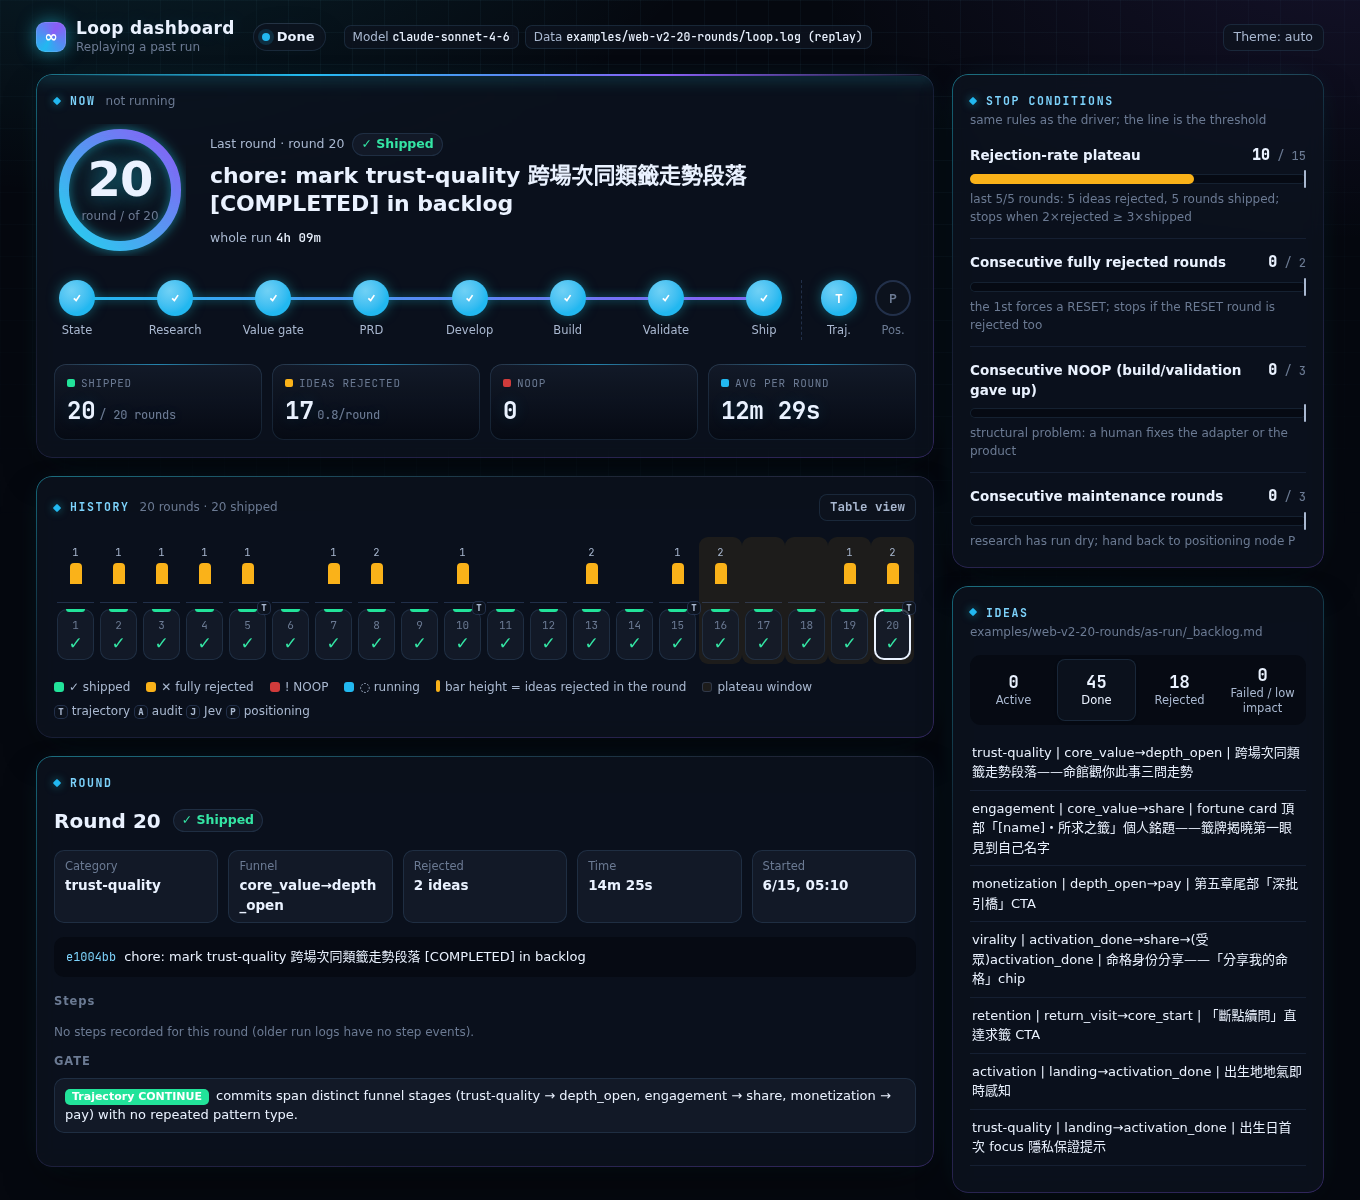
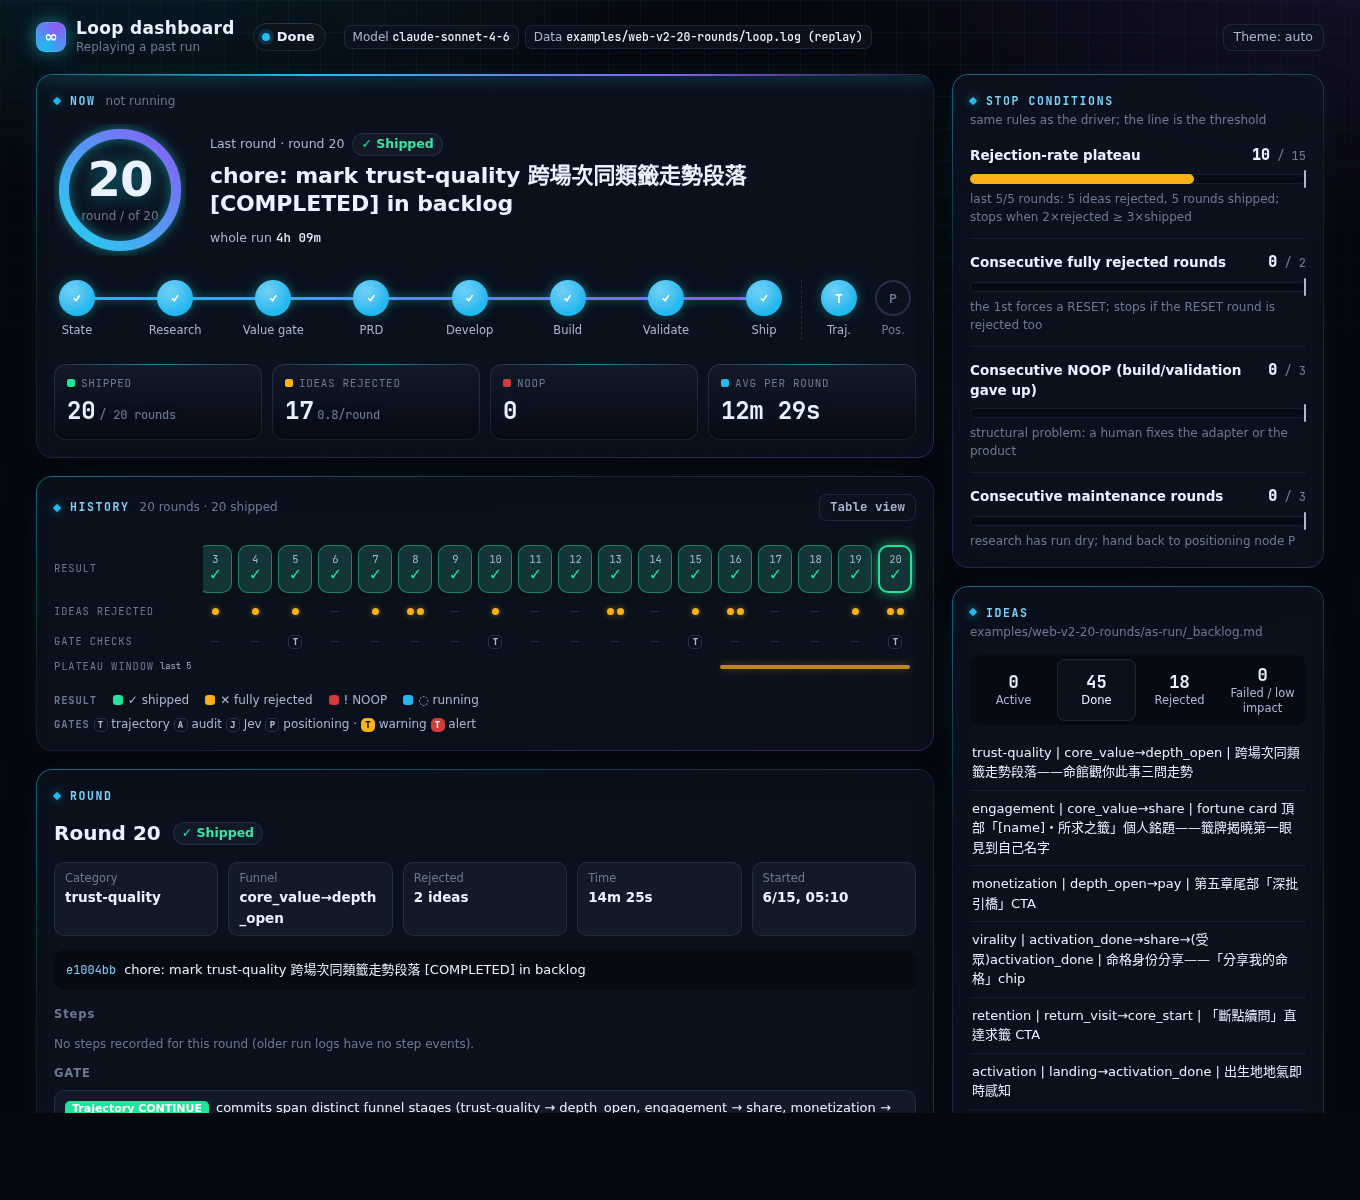
Dashboard history: one labelled row per signal (result, ideas rejected, gate checks, plateau window)

diff --git a/scripts/dashboard/index.html b/scripts/dashboard/index.html
@@ -151,7 +151,7 @@ body::before { content: ""; position: fixed; inset: 0; pointer-events: none; z-i
 @keyframes spin { to { transform: rotate(360deg); } }
 @keyframes ripple-ring { from { transform: scale(1); opacity: .8; } to { transform: scale(1.9); opacity: 0; } }
 .gatebox { display: flex; gap: 8px; padding-left: 14px; border-left: 1px dashed var(--line-2); }
-@media (prefers-reduced-motion: reduce) { .pill.running .dot, .pill.running .dot::after, .stop.now .b, .stop.now .b::before, .stop.now .b::after, .rail .flow, .rail .flow::after, .rail.live .fillbar::after, .srow.cur .dbar i { animation: none !important; }
+@media (prefers-reduced-motion: reduce) { .pill.running .dot, .pill.running .dot::after, .stop.now .b, .stop.now .b::before, .stop.now .b::after, .s-RUNNING .ic, .rail .flow, .rail .flow::after, .rail.live .fillbar::after, .srow.cur .dbar i { animation: none !important; }
   .pill.running .dot::after, .stop.now .b::after, .rail .flow::after, .rail.live .fillbar::after { display: none; } }
 @media (max-width: 700px) {
   .now-head { grid-template-columns: auto minmax(0, 1fr); gap: 16px; }
@@ -173,30 +173,36 @@ body::before { content: ""; position: fixed; inset: 0; pointer-events: none; z-i
 .kpi .v { font-family: var(--mono); font-variant-numeric: tabular-nums; font-size: 24px; font-weight: 700; letter-spacing: -.01em; text-shadow: 0 0 16px var(--accent-soft); margin-top: 2px; white-space: nowrap; }
 .kpi .v small { font-size: 12px; font-weight: 500; color: var(--muted); margin-left: 4px; }
 
-/* history: rejects-per-round bars over status tiles */
+/* history: one column per round, one labelled row per signal */
+.hist[hidden] { display: none; }
+.hist { display: grid; grid-template-columns: auto minmax(0, 1fr); gap: 0 12px; align-items: start; }
+.hlabels, .rcol { display: grid; grid-template-rows: 48px 22px 22px 12px; row-gap: 8px; }
+.hlabels { padding-top: 10px; }
+.hlabels > div { display: flex; align-items: center; font-family: var(--mono); font-size: 10.5px; letter-spacing: .08em; text-transform: uppercase; color: var(--muted); white-space: nowrap; }
+.hlabels > div small { margin-left: 6px; letter-spacing: 0; text-transform: none; color: var(--ink-2); }
 .strip { position: relative; display: flex; gap: 6px; overflow-x: auto; padding: 10px 4px 4px; }
-.rcol { flex: 1 1 0; min-width: 28px; max-width: 48px; display: flex; flex-direction: column; gap: 6px; position: relative; }
-.rcol.inwin::before { content: ""; position: absolute; inset: -8px -3px -4px; background: var(--band); border-radius: 9px; }
-.barcell { position: relative; height: 58px; display: flex; flex-direction: column; justify-content: flex-end; align-items: center; }
-.barcell .bv { font-size: 10.5px; color: var(--ink-2); font-family: var(--mono); margin-bottom: 2px; }
-.barcell .bar { width: min(12px, 40%); border-radius: 4px 4px 0 0; background: var(--warning); }
-.barcell .base { width: 100%; height: 1px; background: var(--line-2); }
-.tile { position: relative; border: 0; border-radius: 10px; padding: 8px 0 7px; cursor: pointer; background: var(--surface-2);
-  box-shadow: inset 0 0 0 1px var(--ring); text-align: center; transition: transform .12s, box-shadow .12s; }
-.tile:hover { transform: translateY(-1px); box-shadow: inset 0 0 0 1px var(--line-2), 0 4px 12px rgba(0,0,0,.1); }
-.tile[aria-current="true"] { box-shadow: inset 0 0 0 2px var(--ink); }
-.tile::after { content: ""; position: absolute; left: 9px; right: 9px; top: 0; height: 3px; border-radius: 0 0 3px 3px; background: var(--muted); }
-.tile .no { display: block; font-size: 11px; color: var(--muted); font-family: var(--mono); }
-.tile .ic { display: block; font-size: 17px; font-weight: 800; line-height: 20px; }
-.tile .mk { position: absolute; top: -8px; right: -5px; display: flex; gap: 2px; z-index: 2; }
-.s-SHIPPED::after { background: var(--good); } .s-SHIPPED .ic { color: var(--good-ink); }
-.s-REJECTED::after { background: var(--warning); } .s-REJECTED .ic { color: var(--warning-ink); }
-.s-NOOP::after { background: var(--critical); } .s-NOOP .ic { color: var(--critical-ink); }
-.s-RUNNING::after { background: var(--accent); } .s-RUNNING .ic { color: var(--accent-ink); }
+.rcol { flex: 1 1 0; min-width: 34px; max-width: 52px; position: relative; }
+.tile { --c: var(--muted); position: relative; border: 0; border-radius: 10px; cursor: pointer; display: grid; place-content: center; gap: 1px;
+  background: color-mix(in srgb, var(--c) 14%, var(--surface-2)); box-shadow: inset 0 0 0 1px color-mix(in srgb, var(--c) 45%, transparent);
+  text-align: center; transition: transform .12s, box-shadow .12s; }
+.tile:hover { transform: translateY(-1px); box-shadow: inset 0 0 0 1px var(--c), 0 0 14px -4px var(--c); }
+.tile[aria-current="true"] { box-shadow: inset 0 0 0 2px var(--c), 0 0 16px -3px var(--c); }
+.tile .no { font-size: 10.5px; color: var(--ink-2); font-family: var(--mono); line-height: 1; }
+.tile .ic { font-size: 16px; font-weight: 800; line-height: 18px; color: var(--c); }
+.s-SHIPPED { --c: var(--good); } .s-REJECTED { --c: var(--warning); } .s-NOOP { --c: var(--critical); } .s-RUNNING { --c: var(--accent); }
+.s-RUNNING .ic { animation: spin 2.4s linear infinite; }
+.rej, .gts { display: flex; flex-wrap: wrap; align-items: center; justify-content: center; gap: 3px; }
+.rej i { width: 7px; height: 7px; border-radius: 50%; background: var(--warning); box-shadow: 0 0 6px -1px var(--warning); }
+.rej b { font-size: 10px; font-family: var(--mono); color: var(--warning-ink); font-weight: 700; }
+.rej .none, .gts .none { width: 8px; height: 1px; background: var(--line-2); }
+.wcell { align-self: center; height: 4px; margin: 0 -3px; }
+.wcell.on { background: var(--warning); opacity: .75; box-shadow: 0 0 8px -1px var(--warning); }
+.wcell.on.first { margin-left: 2px; border-radius: 3px 0 0 3px; } .wcell.on.last { margin-right: 2px; border-radius: 0 3px 3px 0; }
 .mkb { display: inline-block; font-size: 9px; font-weight: 800; line-height: 14px; min-width: 14px; padding: 0 3px; border-radius: 5px; background: var(--surface); color: var(--ink-2); box-shadow: inset 0 0 0 1px var(--line-2); font-family: var(--mono); text-align: center; }
 .mkb.alert { color: #fff; background: var(--critical); box-shadow: none; }
 .mkb.warn { color: #000; background: var(--warning); box-shadow: none; }
 .legend { display: flex; flex-wrap: wrap; gap: 6px 16px; margin-top: 14px; font-size: 12px; color: var(--ink-2); align-items: center; }
+.legend b { font-family: var(--mono); font-size: 10.5px; letter-spacing: .08em; text-transform: uppercase; color: var(--muted); font-weight: 700; }
 .legend .sw { display: inline-block; width: 10px; height: 10px; border-radius: 3px; vertical-align: -1px; margin-right: 5px; }
 
 .tip { position: fixed; z-index: 10; pointer-events: none; background: var(--surface); color: var(--ink); border-radius: 10px; padding: 9px 11px; font-size: 12px; max-width: 320px; display: none;
@@ -305,16 +311,18 @@ dialog pre { margin: 0; padding: 16px; overflow: auto; max-height: calc(100vh - 
       <section class="card" aria-labelledby="h-hist">
         <h2 id="h-hist">History <span class="sub" id="histSub"></span>
           <button class="ghost right" id="viewToggle" aria-pressed="false">Table view</button></h2>
-        <div id="strip" class="strip" role="list"></div>
+        <div class="hist" id="histGrid">
+          <div class="hlabels" aria-hidden="true"><div>Result</div><div>Ideas rejected</div><div>Gate checks</div><div>Plateau window<small id="winLabel"></small></div></div>
+          <div id="strip" class="strip" role="list"></div>
+        </div>
         <div id="roundTable" class="scroll-x" hidden></div>
         <div class="legend">
+          <span><b>Result</b></span>
           <span><span class="sw" style="background:var(--good)"></span>✓ shipped</span>
           <span><span class="sw" style="background:var(--warning)"></span>✕ fully rejected</span>
           <span><span class="sw" style="background:var(--critical)"></span>! NOOP</span>
           <span><span class="sw" style="background:var(--accent)"></span>◌ running</span>
-          <span><span class="sw" style="background:var(--warning);width:4px;height:12px"></span>bar height = ideas rejected in the round</span>
-          <span><span class="sw" style="background:var(--band);box-shadow:inset 0 0 0 1px var(--line-2)"></span>plateau window</span>
-          <span><span class="mkb">T</span> trajectory <span class="mkb">A</span> audit <span class="mkb">J</span> Jev <span class="mkb">P</span> positioning</span>
+          <span><b>Gates</b> <span class="mkb">T</span> trajectory <span class="mkb">A</span> audit <span class="mkb">J</span> Jev <span class="mkb">P</span> positioning · <span class="mkb warn">T</span> warning <span class="mkb alert">T</span> alert</span>
         </div>
       </section>
 
@@ -472,19 +480,21 @@ function renderNow() {
 function renderHistory() {
   const rs = S.rounds, W = S.meters.find((m) => m.key === "plateau")?.window || 5;
   $("histSub").textContent = rs.length ? `${rs.length} rounds · ${rs.filter((r) => r.verdict === "SHIPPED").length} shipped` : "";
-  $("strip").hidden = tableView; $("roundTable").hidden = !tableView;
+  $("histGrid").hidden = tableView; $("roundTable").hidden = !tableView;
   if (!rs.length) { $("strip").innerHTML = '<div class="empty">No history yet.</div>'; return; }
   if (!tableView) {
     const atEnd = $("strip").scrollLeft + $("strip").clientWidth >= $("strip").scrollWidth - 4;
-    const maxR = Math.max(1, ...rs.map((r) => r.rejects || 0));
-    const win = new Set(rs.filter((r) => r.verdict).slice(-W).map((r) => r.n));
+    const fin = rs.filter((r) => r.verdict).slice(-W).map((r) => r.n), win = new Set(fin);
+    $("winLabel").textContent = `last ${W}`;
     $("strip").innerHTML = rs.map((r) => {
-      const v = verdictOf(r) || "NOOP", h = ((r.rejects || 0) / maxR) * 42;
-      const marks = r.gates.map((g) => `<span class="mkb ${gateClass(g.verdict)}">${{ traj: "T", audit: "A", jev_same: "J", position: "P" }[g.type]}</span>`).join("");
-      return `<div class="rcol ${win.has(r.n) ? "inwin" : ""}" role="listitem">
-        <div class="barcell" aria-hidden="true"><span class="bv">${r.rejects ? r.rejects : ""}</span><div class="bar" style="height:${h}px"></div><div class="base"></div></div>
-        <button class="tile s-${v}" data-round="${r.n}" aria-current="${selected === r.n}" aria-label="Round ${r.n}: ${WORD[v] || v}, ${r.rejects || 0} ideas rejected">
-          <span class="mk">${marks}</span><span class="no">${r.n}</span><span class="ic">${ICON[v] || "?"}</span></button></div>`;
+      const v = verdictOf(r) || "NOOP", n = r.rejects || 0;
+      const dots = n ? "<i></i>".repeat(Math.min(n, 4)) + (n > 4 ? `<b>+${n - 4}</b>` : "") : '<span class="none"></span>';
+      const marks = r.gates.length ? r.gates.map((g) => `<span class="mkb ${gateClass(g.verdict)}">${{ traj: "T", audit: "A", jev_same: "J", position: "P" }[g.type]}</span>`).join("") : '<span class="none"></span>';
+      const wc = win.has(r.n) ? `on${r.n === fin[0] ? " first" : ""}${r.n === fin[fin.length - 1] ? " last" : ""}` : "";
+      return `<div class="rcol" role="listitem">
+        <button class="tile s-${v}" data-round="${r.n}" aria-current="${selected === r.n}" aria-label="Round ${r.n}: ${WORD[v] || v}, ${n} ideas rejected">
+          <span class="no">${r.n}</span><span class="ic">${ICON[v] || "?"}</span></button>
+        <div class="rej" aria-hidden="true">${dots}</div><div class="gts" aria-hidden="true">${marks}</div><div class="wcell ${wc}" aria-hidden="true"></div></div>`;
     }).join("");
     if (atEnd) $("strip").scrollLeft = $("strip").scrollWidth;   // follow the newest round unless the user scrolled back
   } else {

diff --git a/docs/10-dashboard.md b/docs/10-dashboard.md
@@ -14,7 +14,7 @@ node scripts/dashboard/serve.mjs            # opens http://127.0.0.1:4400, refre
 |---|---|---|
 | Status pill + banner | Is it running? Has it stopped? Why? | `.loop/run.pid` (is the process alive), `.loop/state` (`WAITING_FOR_P`), `stop` / `park` / `done` events |
 | Now | Which round, which step of C→R→F→S→D→B→V→Y, how long this step has taken; T / P / deep C light up while the driver runs them | `round_start` and `step`, `*_start` in `events.jsonl` |
-| History | Each round's result (✓ shipped / ✕ fully rejected / ! NOOP), how many ideas were rejected inside it, which rounds had gate events (T / A / J / P; red and yellow mean STOP / REDIRECT and the like) | `round_end`, `traj`, `audit`, `jev_same`, `position` |
+| History | Each round's result (✓ shipped / ✕ fully rejected / ! NOOP), how many ideas were rejected inside it, which rounds had gate events (T / A / J / P; red and yellow mean STOP / REDIRECT and the like), and which finished rounds the plateau window currently covers. Each signal is its own labelled row under the round tiles | `round_end`, `traj`, `audit`, `jev_same`, `position` |
 | Round N | Category, funnel, commit, a timeline of every step, the gates' original text, the round's PRP / brief / round log | the same, plus `git show --name-only <commit>` |
 | Stop conditions | How far each of the driver's four stop thresholds is from firing | recomputed from events, **with the same rules as `scripts/run-loop.sh`** (tests check them rule by rule) |
 | Ideas | The status of every idea in the ledger, with Jev fast-rejects marked separately | `LEDGER` (default `.claude/tasks/_idea_ledger.md`) |

diff --git a/README.md b/README.md
@@ -100,7 +100,7 @@ How to read it: yellow diamonds are **gates** — each judgment goes to an indep
 ![Loop dashboard, simulated run: round 4 is in D (develop) after a RESET; round 2 was fully rejected; in round 3 Jev flagged a repeated tactic and the early trajectory check returned REDIRECT](docs/img/dashboard-live.png)
 
 - **Now:** the round, the node on C→R→F→S→D→B→V→Y it has reached, and how long the step and the round have taken.
-- **History:** each round's result, with the number of ideas rejected inside it and the gate events (T / A / J / P).
+- **History:** each round's result, with the number of ideas rejected inside it the gate events (T / A / J / P), and the rounds inside the plateau window, each on its own labelled row.
 - **Stop conditions:** how far each of the driver's four stop thresholds is from firing, computed with the same rules as `scripts/run-loop.sh`.
 - **Ideas and Jev:** every idea in the ledger with its status, and the latest Jev calls.
 
